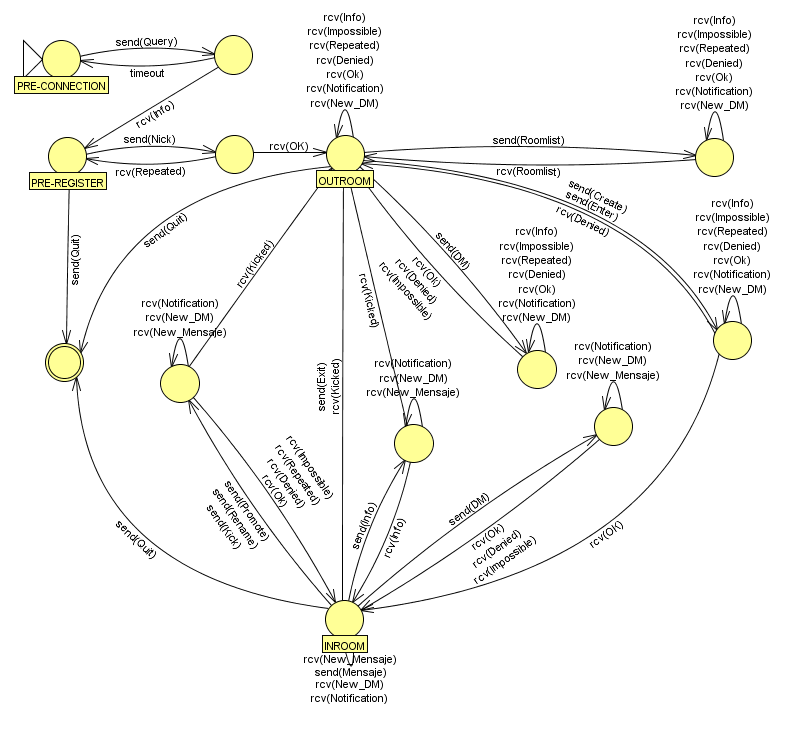
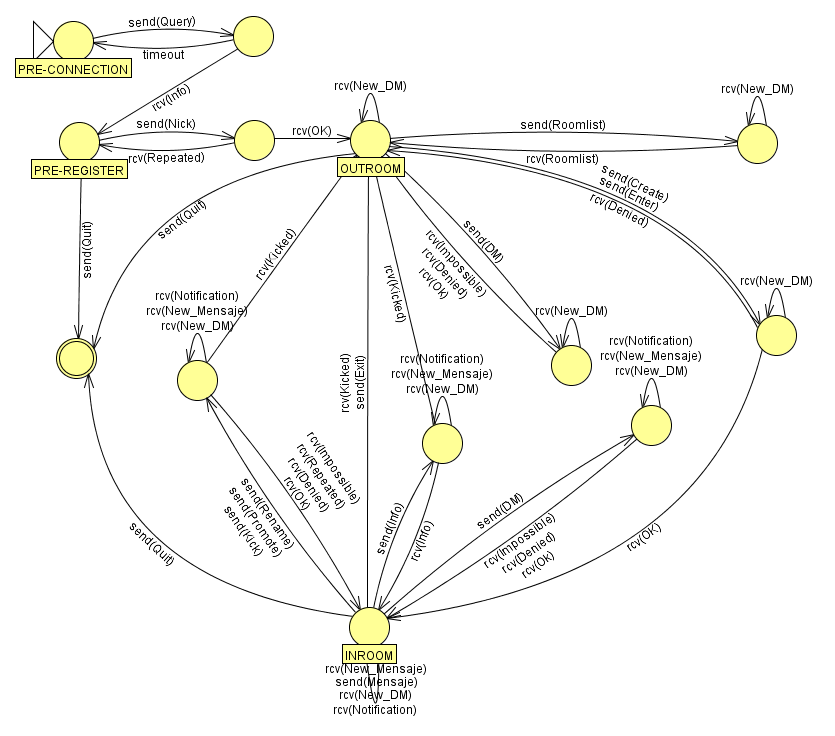
Updates from Overleaf

diff --git a/doc/LaTex/NanoChat_text.tex b/doc/LaTex/NanoChat_text.tex
@@ -221,16 +221,16 @@ A continuación mostramos el listado de todos los mensajes que componen nuestra 
 
 
 \section{Detalles principales de la implementación} 
-Finalmente entraremos en detalle sobre la implementación  de las mejoras especificadas en el boletín de prácticas. Comparando la funcionalidad básica que se nos exigía programar en la práctica, las mejoras corresponden a la implementación de administradores en las salas, notificaciones de sala y la creación de nuevas salas. También se tratan de pequeñas mejoras la implementación de varios tipos de sala y definir más mensajes de control para el servidor, para notificar distintos tipos de situaciones. Por ejemplo, recibiremos un mensaje de tipo \mess{Repeated} si intentamos hacer administrador a un usuario que ya lo es.
+Finalmente entraremos en detalle sobre la implementación de la práctica. Para la evaluación, se nos exigía una funcionalidad básica y la implementación de algunas mejoras podían mejorar nuestra calificación. Las mejoras corresponden a la implementación de mensajes directos, administradores en las salas, notificaciones de sala y la creación de nuevas salas. También se tratan de mejoras pequeñas la implementación de varios tipos de sala y definir más mensajes de control para el servidor, para notificar distintos tipos de situaciones. Por ejemplo, recibiremos un mensaje de tipo \mess{Repeated} si intentamos hacer administrador a un usuario que ya lo es.
 
 Otra cosa que queremos comentar es que hemos cambiado gran parte del código inicial del proyecto. Aunque la estructura del proyecto es esencialmente la misma, con las mismas clases, hemos modificado muchas opciones para dejarlas como creemos que es adecuado. Por ejemplo, hemos añadido enumerados en sitios donde se usaban códigos como constantes o hemos cambiado la implementación de los mensajes para que sea más difícil cometer fallos programando y se detecten fallos en la codificación.
 
-A continuación, comentaremos la implementación de los cambios más importantes.
+Las ideas para la implementación de la funcionalidad básica se pueden encontrar en la especificación de la misma. A continuación, comentaremos la implementación de los cambios más importantes.
 
 \subsection{Representación de los mensajes} %TODO hablar de como se ha transformado la clase NCMessage entodo lo que es ahora y explicar decisión de hacer clases distintas, encoder, decoder, excepciones
-Cuando empezamos con el proyecto y a diseñar el protocolo de comunicación, nos dimos cuenta de que muchos mensajes iban a compartir formato. Por ejemplo, los mensajes \mess{Register}, \mess{Create}, \mess{Enter}, y otros tantos envían solo una cadena de texto (además del tipo de operación). Es más, en esos $3$ mensajes, el nombre de ese campo podría haber sido <<name>>, pues se la cadena se corresponde con el nombre de un usuario o de una sala. De hacerlo así, en la aplicación podríamos haber tenido una única clase para representar todos estos mensajes.
+Cuando empezamos con el proyecto y a diseñar el protocolo de comunicación, nos dimos cuenta de que muchos mensajes iban a compartir formato. Por ejemplo, los mensajes \mess{Register}, \mess{Create}, \mess{Enter}, y otros tantos envían solo una cadena de texto (además del tipo de operación). Es más, en esos $3$ mensajes, el nombre de ese campo podría haber sido <<name>>, pues la cadena se corresponde con el nombre de un usuario o de una sala. De hacerlo así, en la aplicación podríamos haber tenido una única clase para representar todos estos mensajes.
 
-Los motivos por los que no lo hemos ni diseñado ni implementado así son varios. El primero, es que pensamos que, en este caso, no se debe diseñar el protocolo pensando en que sea fácil de implementar. En su lugar, debe ser fácil leer los mensajes. No hay ningún motivo, desde el punto de vista de la comunicación, para no llamar al campo del mensaje \mess{Create} <<room>>. Si comparamos estos dos ejemplos:
+Los motivos por los que no lo hemos ni diseñado ni implementado así son varios. El primero, es que pensamos que, en este caso, no se debe diseñar el protocolo pensando en que sea fácil de implementar. En su lugar, debería ser fácil entender los mensajes. No hay ningún motivo, desde el punto de vista de la comunicación, para no llamar al campo del mensaje \mess{Create} <<room>>. Entre estas dos opciones:
 
 \begin{multicols}{2}
 \begin{lstlisting}
@@ -246,19 +246,18 @@ Name:A
 \end{lstlisting}
 \end{multicols}
 
-En en el primer caso queda claro que se crea una sala con nombre <<A>>, mientras que en el segundo caso no sabemos qué se crea, solo que se llama <<A>>.
+en en el primer caso queda claro que se crea una sala con nombre <<A>>, mientras que en el segundo caso no sabemos qué se crea, solo que se llama <<A>>.
 
 Por otro lado, si una misma clase representa varios tipos de mensajes en la aplicación, es sencillo que al programar, cuando representaba un tipo de mensaje, se use como otro. En cambio, si una clase se llama \lstinline!NCDirectMessage!, es evidente qué tipo de mensaje representa. Por tanto, hemos diseñado los mensajes del protocolo buscando la semántica para los campos que más facilitase la lectura, y hemos implementado, para cada tipo de mensaje, una clase distinta.
 
-Con todo y eso, cuando se va a implementar una clase distinta para cada mensaje, no se quiere tener que repetir mucho código, porque de cambiarlo en un sitio, hay que modificarlo en todos, lo cual, además de consumir tiempo, fomenta cometer un error. Por tanto, cogimos la parte fundamental de las clases de los mensajes, que son las funciones que codifican y decodifican un mensaje, e hicimos una clase externa que realizase esta tarea. Estas clases se llaman \lstinline!NCMessageEncoder! y \lstinline!NCMessageDecoder!. De esta manera, la implementación de nuevos mensajes es también muy simple. Por ejemplo, el código del mensaje \mess{Create} es así de simple:
+Con todo y eso, cuando se va a implementar una clase distinta para cada mensaje, no se quiere tener que repetir mucho código, porque de cambiarlo en un sitio, hay que modificarlo en todos, lo cual, además de consumir tiempo, fomenta cometer un error. Por tanto, cogimos la parte fundamental de las clases de los mensajes, que son las funciones que codifican y decodifican un mensaje, e hicimos dos clases externas que realizasen esta tarea. Estas clases se llaman \lstinline!NCMessageEncoder! y \lstinline!NCMessageDecoder!. De esta manera, la implementación de nuevos mensajes es también muy simple. Por ejemplo, el código del mensaje \mess{Create} es así de simple:
 
-%TODO incluir código mensaje Create
-%\lstinputlisting[]{}t
+\lstinputlisting[style=JavaStyle, caption=NCCreateMessage]{../../src/messageFV/messages/NCCreateMessage.java}
 
 \subsubsection*{La clase NCMessageEncoder}
-La clase \lstinline{NCMessageEncoder} abstrae la codificación de un mensaje \keyw{Field-Value} cualquiera. Posee métodos para codificar campos simples y múltiples, y sigue un patrón de diseño común en la programación orientada a objetos llamado \keyw{builder pattern} en inglés. Se facilita que los programadores que hagan uso de la clase la utilicen correctamente (podemos ver el ejemplo de uso más arriba, en el código de la clase \lstinline!NCCreateMessage!).
+La clase \lstinline{NCMessageEncoder} abstrae la codificación de un mensaje \keyw{Field-Value} cualquiera. Posee métodos para codificar campos simples y múltiples, y sigue un patrón de diseño común en la programación orientada a objetos llamado \keyw{builder pattern} en inglés. Con este patrón, se facilita que los programadores que hagan uso de la clase la utilicen correctamente (podemos ver el ejemplo de uso más arriba, en el código de la clase \lstinline!NCCreateMessage!).
 
-%TODO incluir código de clase
+\lstinputlisting[style=JavaStyle, caption=NCMessageEncoder]{../../src/messageFV/NCMessageEncoder.java}
 
 \subsubsection*{La clase NCMessageDecoder}
 La clase \lstinline!NCMessageDecoder! es la dual a la clase \lstinline!NCMessageEncoder! y sirve para decodificar los mensajes. La clase implementa métodos para decodificar campos simples y múltiples y para saber si queda más por leer del mensaje. Además, durante la decodificación se producen las comprobaciones de formato, evitando que los errores trasciendan. El manejo de los errores se ha llevado a cabo con el uso de excepciones de tipo \lstinline!InvalidFormat!.
@@ -276,37 +275,38 @@ Sin embargo, Java no permite el paso de variables por referencia, y como la clas
 
 En su lugar, se llama a las mismas funciones en orden y estas devuelven el valor (o valores) del campo decodificado.
 
-%TODO incluir código de clase
+%\lstinputlisting[style=JavaStyle, caption=NCMessageDecoder]{../../src/messageFV/NCMessageDecoder.java}
 
-\subsection{Mejoras adicionales implementadas}
-\subsubsection{Notificaciones}
-Para la implementación de las notificaciones hemos creado un nuevo tipo de mensaje \mess{Notification}. Como este tipo de mensaje solo es enviado por el servidor y solo es usado dentro de las salas, hemos creado dos funciones dentro de los tipos de salas que los implementan.
-%TODO aquí no hables de nuevo mensaje, porque para el lector, es un mensaje más de los presentados.
-\lstinputlisting[style=JavaStyle]{sendNotification.txt}
+\subsection{Gestión de salas en el servidor de chat}
+El servidor de chat tiene la tarea de gestionar por una lado, la creación, renombre y eliminación de salas; la entrada y salida de los usuarios; y la ejecución de acciones dentro de las salas, como el envío de mensajes y la expulsión de otro usuario. La representación de una sala dentro de la aplicación viene dada por la interfaz \lstinline!NCRoomManager!, que define la funcionalidad que debe implementar cualquier sala. Los métodos de la interfaz están pensados para que sean los hilos del servidor que atienden a cada usuario, representados por la clase \lstinline!NCServerThread!, los que manejen la entrada, salida y la comunicación dentro de la sala. De esta manera, una única clase controla todo lo que concierne a los usuarios desde que entran en una sala hasta que salen, atendiendo los comandos que envían los usuarios y que reciben sus hilos.
 
-Como los receptores de estos mensajes son los clientes, hemos tenido que modificar la función que distingue los mensajes que proceden de dentro de una sala y crear la función que interprete el contenido de estos.
+\lstinputlisting[style=JavaStyle, caption=NCRoomManager]{../../src/server/rooms/NCRoomManager.java}
 
-\subsubsection{Mensajes privados}
-A la hora de implementar este tipo de mensajes pensamos en que se pudieran usar tanto dentro como fuera de las salas; para ello, hemos tenido que modificar la clase shell del proyecto para que además de interpretar los comandos escritos fuera de las salas, también considerara los mensajes recibidos en el socket y notificara de ello.
+No obstante, la creación, renombre y eliminación de salas queda a cargo de la clase \lstinline!NCServerManager!, una entidad que controla los recursos comunes en el servidor. La clase \lstinline!NCServerManager! aporta funcionalidad para que los clientes (a través de su \lstinline!NCServerThread!) puedan crear nuevas salas y obtener el \lstinline!NCRoomManager! de una sala a través de su nombre. Por ejemplo, una petición de un usuario de cambiar el nombre de su sala seguiría los siguientes pasos:
 
-Hemos creado dos nuevos tipos de mensajes: \mess{DM}, \mess{New DM}. La dinámica es la siguiente: el cliente envía un mensaje tipo \mess{DM} que es recibido por su propio hilo del servidor, este hilo usa el mensaje recibido para crear un \mess{New DM} que envía al destinatario del primer mensaje y además envía un mensaje de control al emisor.\\
+\begin{enumerate}
+    \item El \lstinline!NCServerThread! del cliente recibe un mensaje de tipo Rename con el nuevo nombre.
+    \item El \lstinline!NCServerThread! del cliente utiliza un método de la interfaz \lstinline!NCRoomManager! para solicitar que se cambie el nombre.
+    \item El \lstinline!NCRoomManager! de la sala comprueba que el usuario tiene permiso para realizar esta acción y solicita al \lstinline!NCServerManager! cambiar su nombre.
+    \item El \lstinline!NCServerManager! comprueba que no existe otra sala con ese nombre y si es así cambia el nombre de la sala. La operación devuelve si tuvo éxito.
+    \item El \lstinline!NCRoomManager! de la sala actualiza su nombre si procede. Si el nombre fue actualizado, envía una notificación al resto de usuarios dentro de la sala. La operación devuelve un mensaje de control que informa del resultado.
+    \item El \lstinline!NCServerThread! avisa al cliente si la operación no se pudo realizar y por qué (la sala no admite cambio de nombre, el usuario no tiene permiso u otra sala tiene ese nombre).
+\end{enumerate}
 
-\textbf{\underline{NCController}}
-\lstinputlisting[style=JavaStyle]{sendDirectMessage.txt}
+Como vemos, es deber de la sala gestionar todos sus recursos y comunicarse directamente con sus usuarios. Para solucionar los problemas de concurrencia, hemos implementado la sala como un monitor y utilizamos la directiva \lstinline!syncrhonized! para asegurar la exclusión mutua. De esta manera, aseguramos la ejecución de cada orden una tras otra y evitamos tener que manejar casos como que un usuario entre a la sala mientras se están enviando mensajes al resto de usuarios. El problema de estos casos es que puede haber descontrol en el orden en el que suceden los eventos. ¿Si estábamos notificando de la salida de un usuario, deberíamos notificar al usuario que acaba de entrar?. Técnicamente, ha entrado después de la salida del otro, y la respuesta es no; pero entonces tenemos que tener una forma de saber qué usuarios son nuevos, etc. Es decir, creemos que una sala debe atender consultas en orden.
 
-\textbf{\underline{NCServerThread}} %TODO como esa parte se iba a refactorizar colocar la funcion correspondiente
-\lstinputlisting[style=JavaStyle]{sendNewDM.txt}
+\lstinputlisting[style=JavaStyle, caption=Código para una sala básica]{../../src/server/rooms/NCBasicRoom.java}
 
-\subsubsection{Crear salas}
+\subsection{Mensajes directos}
+A la hora de implementar este tipo de mensajes pensamos en que se pudieran usar tanto dentro como fuera de las salas. Para ello, hemos tenido que modificar en la aplicación cliente la clase que leía los comandos, \lstinline!NCShell!, para que también considerara que se podían recibir mensajes fuera de las salas.
+
+En el servidor, es el \lstinline!NCServerManager! el que se encarga de gestionar el registro de usuarios. Por tanto, al enviar un \mess{DM}, el \lstinline!NCServerThread! consulta al \lstinline!NCServerManager! para comunicarse con otro usuario del servidor.
+
+\lstinputlisting[style=JavaStyle, caption=gestión del usuario de los mensajes privados]{sendDirectMessage.txt}
+
+\lstinputlisting[style=JavaStyle, caption=gestión del servidor de los mensajes privados]{sendNewDM.txt}
 
 
-\subsubsection{Administradores y sus funciones}
-La implementación de los administradores se ha hecho a través de un HashSet de String, para almacenar los nombres de los usuarios que adquieran este rol. Como ya hemos explicado anteriormente, cuando los usuarios adquieren este estatus pueden usar unos cuantos comandos especiales, de los cuales ya hemos hablado. 
-\begin{itemize} %TODO
-    \item \underline{Renombrar salas:} 
-    \item \underline{Echar a alguien de la sala:}
-    \item \underline{Dar el rol de administrador a una persona:}
-\end{itemize}
 
 \section{Conclusiones}
 Desarrollar un protocolo de comunicación nosotros mismos e implementarlo ha sido una actividad muy interesante. Nos hemos dado cuenta de cómo hay que tener en cuenta muchas situaciones especiales que surgen cuando el protocolo se va complicando, por culpa de que la comunicación no es instantánea. Además, también hemos aprendido la utilidad que representa diseñar el protocolo antes de programar el programa, ya que permite, por ejemplo, trabajar en equipos grandes y que todo el mundo comprenda de antemano conceptos clave del proyecto.

diff --git a/doc/LaTex/NanoChat.tex b/doc/LaTex/NanoChat.tex
@@ -66,12 +66,12 @@
 }
 
 \definecolor{javakeywords}{rgb}{0.3,0.3,1}
-\definecolor{javacomments}{rgb}{0.2,1,0.2}
-\definecolor{javastrings}{rgb}{0.2,0.7,0.2}
+\definecolor{javacomments}{rgb}{0.7,0.3,0.2}
+\definecolor{javastrings}{rgb}{0.7,0.2,0.7}
 \lstdefinestyle{JavaStyle}{
     language=java,                          % the language of the code
     frame=L,                            % adds a frame around the code
-    %rulecolor=\color{black},                  % if not set, the frame-color may be changed on line-breaks within not-black text (e.g. comments)
+    rulecolor=\color{black},                  % if not set, the frame-color may be changed on line-breaks within not-black text (e.g. comments)
     %backgroundcolor=\color{codebackground}, % choose the background color
     basicstyle=\footnotesize\ttfamily,        % the size of the fonts that are used for the code
     keywordstyle=\color{javakeywords},                % keyword style
@@ -83,6 +83,9 @@
     %stepnumber=10,                             % the step between two line-numbers. If it's 1, each line will be numbered
     tabsize=4,                                % sets default tabsize to 2 spaces
     showstringspaces=false,                   % underline spaces within strings only
+    captionpos=t,                             % sets the caption-position to bottom
+    %title=\lstname,                          % show the filename of files included with \lstinputlisting;
+    columns=flexible,
 }
 
 \usepackage{multicol} 

diff --git a/doc/LaTex/mensajes.tex b/doc/LaTex/mensajes.tex
@@ -55,6 +55,14 @@ Formato: &  \begin{tabular}{l l}
 \hline
 Descripción: & Mensaje para crear una \keyw{sala} en el servidor de chat. \\
 \end{displayMessage}
+\begin{displayMessage}{Rename}
+Formato: &  \begin{tabular}{l l}
+                Operation:      & \str{Rename} \\
+                New name:       & \str{<room name>} \\
+            \end{tabular}\\
+\hline
+Descripción: & Mensaje para renombrar una \keyw{sala} en el servidor de chat. \\
+\end{displayMessage}
 \begin{displayMessage}{Enter}
 Formato: &  \begin{tabular}{l l}
                 Operation:      & \str{Enter} \\

diff --git a/doc/LaTex/EDIT.tex b/doc/LaTex/EDIT.tex
@@ -1,2 +1,3 @@
-añadir mensajes notification, kick y dm
-fuera de una sala no se reciben mensajes de sala, asegurado por el protocolo
+depués de create se recibe repeated, no denied (ambos automatas)
+en el servidor los mensajes son send(Kicked), no rcv(Kicked)
+
